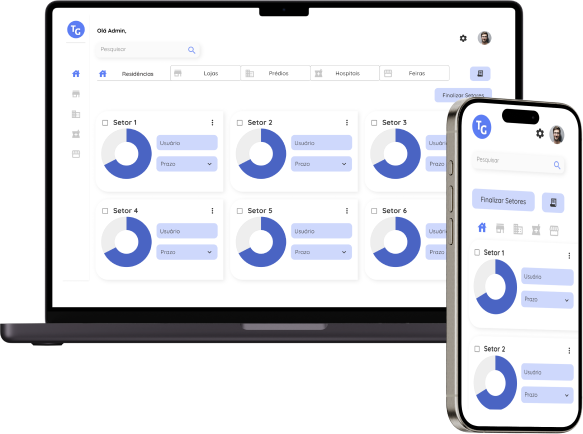
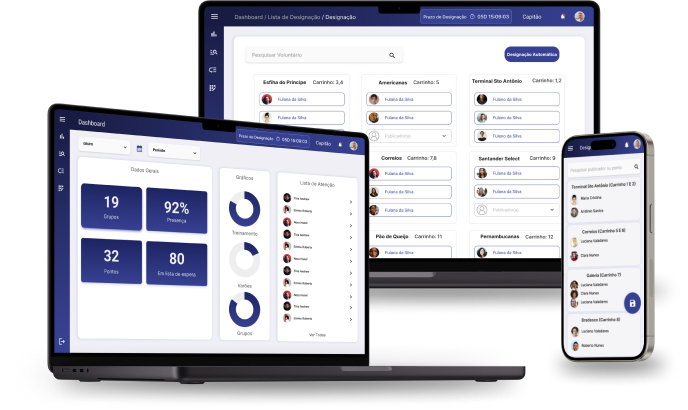
ajuste finos no css

diff --git a/src/pages/auth/login/index.tsx b/src/pages/auth/login/index.tsx
@@ -36,20 +36,19 @@ export function Login() {
   };
 
   const updatePhone = (e: React.ChangeEvent<HTMLInputElement>) => {
-    const phoneRaw = e.target.value.replace(/\D/g, "");
+    const phoneRaw = e.target.value.trim().replace(/\D/g, "");
     const phoneFormatted = formatPhone(phoneRaw);
     setInputLogin({ ...inputLogin, phone: phoneFormatted });
   };
 
-  const haveEmptyFields = !inputLogin.phone || !inputLogin.password;
   return (
     <AuthLayout onSubmit={handleSubmit}>
-      <div className="h-4/6 flex flex-col md:w-1/2 md:justify-center">
+      <div className="h-4/6 flex flex-col gap-8 p-4 md:w-1/2 md:justify-center">
         <div className="md:h-40 h-4/5 flex flex-col justify-evenly items-center">
           <h1 className="font-bold text-xl text-gray-800 md:hidden">
             Insira suas informações para realizar o login
           </h1>
-          <div className="md:w-96 w-full flex flex-col items-center md:gap-12 gap-6">
+          <div className="md:w-80 w-full flex flex-col items-center md:gap-12 gap-6">
             <Input
               crossOrigin
               value={inputLogin.phone}
@@ -78,17 +77,21 @@ export function Login() {
             />
           </div>
         </div>
-        <div className="h-1/5 flex flex-col justify-center items-center gap-4">
+        <div className="h-1/5 min-h-[40px] flex flex-col justify-center items-center gap-4">
           <Button
             placeholder={"Entrar ou Login"}
-            disabled={haveEmptyFields}
             type="submit"
-            className="md:w-96 w-40 md:rounded-xl bg-primary-600"
+            className="
+            md:w-64 w-40 h-[60px] p-7 
+            flex justify-center items-center rounded-2xl 
+            bg-primary-600
+            focus:opacity-65
+            "
             size="lg"
           >
             Entrar
           </Button>
-          <div className="md:w-96 w-40 flex justify-center md:justify-end text-gray-700 md:text-base text-sm">
+          <div className="text-gray-700 md:text-base text-sm">
             <Link to="/forgot-password">Esqueci minha senha</Link>
           </div>
         </div>

diff --git a/src/pages/auth/forgot-password/index.tsx b/src/pages/auth/forgot-password/index.tsx
@@ -63,15 +63,15 @@ export const ForgotPassword = () => {
 
   const haveEmptyFields =
     !inputForgotPassword.phone ||
-    inputForgotPassword.phone.replace(/\D/g, "").length < 11;
+    inputForgotPassword.phone.trim().replace(/\D/g, "").length < 11;
   return (
     <AuthLayout onSubmit={onSubmit}>
-      <div className="h-4/6 flex flex-col md:w-1/2 md:justify-center">
+      <div className="h-4/6 flex flex-col p-4 md:w-1/2 md:justify-center gap-6">
         <div className="md:h-40 h-4/5 flex flex-col justify-evenly items-center">
           <h1 className="font-bold text-xl text-gray-800 md:hidden">
             Insira seu CPF e seu telefone para recuperar a senha
           </h1>
-          <div className="md:w-96 w-full flex flex-col items-center md:gap-12 gap-6">
+          <div className="md:w-80 w-full flex flex-col items-center md:gap-12 gap-6">
             <Input
               crossOrigin
               value={inputForgotPassword.phone}
@@ -98,17 +98,20 @@ export const ForgotPassword = () => {
             /> */}
           </div>
         </div>
-        <div className="h-1/5 flex flex-col justify-center items-center gap-4">
+        <div className="h-1/5 min-h-[40px] flex flex-col justify-center items-center gap-4">
           <Button
             placeholder={"Entrar ou Login"}
             disabled={haveEmptyFields}
             type="submit"
-            className="md:w-96 w-40 md:rounded-xl bg-primary-600"
+            className="      md:w-64 w-40 h-[60px] p-7 
+            flex justify-center items-center rounded-2xl 
+            bg-primary-600
+            focus:opacity-65"
             size="lg"
           >
             Enviar
           </Button>
-          <div className="md:w-96 w-40 flex justify-center md:justify-end text-gray-700 md:text-base text-sm">
+          <div className="text-gray-700 md:text-base text-sm">
             <Link to="/">Voltar</Link>
           </div>
         </div>

diff --git a/src/pages/auth/components/layout.tsx b/src/pages/auth/components/layout.tsx
@@ -1,6 +1,5 @@
 import { FormEvent, HtmlHTMLAttributes, ReactNode } from "react";
 import TpeDigitalCircle from "../../../assets/tpe-digital-circle.svg";
-import TpeDigitalLoginDesktop from "../../../assets/tpe-digital-login-desktop.svg";
 import RectangleBlue from "../../../assets/rectangle-blue.svg";
 import RectangleGray from "../../../assets/rectangle-gray.svg";
 import MackbookTpeLogin from "../../../assets/mackbook-iphone-login.png";
@@ -27,26 +26,27 @@ export const AuthLayout = ({
     >
       <div className="h-2/6 relative flex justify-center items-center md:w-1/2 md:h-full">
         <img src={TpeDigitalCircle} alt="TPE Digital" className="md:hidden" />
-        <img
-          src={MackbookTpeLogin}
-          alt="Mackbook TPE"
-          className="hidden md:block z-30"
-        />
+        <div className="z-50 flex flex-col items-start">
+        
+          <div className="hidden md:block z-40 mt-12 ml-16 text-gray-50 font-semibold text-3xl justify-end">TPE DIGITAL</div>
+          <img
+            src={MackbookTpeLogin}
+            alt="Mackbook TPE"
+            className="hidden md:block z-30 p-8"
+          />
+        </div>
         <img
           src={RectangleBlue}
           alt="Rectangle Blue"
-          className="hidden md:block absolute h-full z-20 left-0 top-0"
+          className="hidden md:block absolute w-[100%] h-full z-20 left-0 top-0"
         />
         <img
           src={RectangleGray}
           alt="Rectangle Gray"
-          className="hidden md:block absolute h-full z-10 left-0 top-0"
+          // aumentar brilho da imagem
+          className="hidden  md:block absolute w-[100%] h-full z-10 left-0 top-0 brightness-[0.98]"
         />
-        <img
-          src={TpeDigitalLoginDesktop}
-          alt="TPE Digital"
-          className="hidden md:block absolute z-30 top-[15%] right-32"
-        />
+
       </div>
       <>{children}</>
     </form>

diff --git a/src/components/box/screen.tsx b/src/components/box/screen.tsx
@@ -20,25 +20,25 @@ export function BoxScreen({
   return (
     <div className="h-full w-full m-4">
       <div className="flex w-full justify-between items-center py-2">
-        <Breadcrumbs placeholder>
-          {showBreadcrumbs
-            ? generateBreadcrumbs(location.pathname).map(
-                (breadcrumb, index) => {
-                  const isLast =
-                    index === generateBreadcrumbs(location.pathname).length - 1;
-                  return (
-                    <Link
-                      key={breadcrumb.path}
-                      to={breadcrumb.path}
-                      className={`${!isLast ? "opacity-60" : ""}`}
-                    >
-                      {breadcrumb.breadcrumbName}
-                    </Link>
-                  );
-                }
-              )
-            : null}
-        </Breadcrumbs>
+        {showBreadcrumbs
+          && (<Breadcrumbs placeholder={showBreadcrumbs}>
+            {generateBreadcrumbs(location.pathname).map(
+              (breadcrumb, index) => {
+                const isLast =
+                  index === generateBreadcrumbs(location.pathname).length - 1;
+                return (
+                  <Link
+                    key={breadcrumb.path}
+                    to={breadcrumb.path}
+                    className={`${!isLast ? "opacity-60" : ""}`}
+                  >
+                    {breadcrumb.breadcrumbName}
+                  </Link>
+                );
+              }
+            )}
+          </Breadcrumbs>
+          )}
         {rightContent}
       </div>
       <div className="bg-white rounded-lg min-h-full flex flex-col gap-10 p-9">

diff --git a/src/pages/auth/forgot-password/CheckNumber.tsx b/src/pages/auth/forgot-password/CheckNumber.tsx
@@ -54,12 +54,12 @@ export function CheckNumberCode() {
 
   return (
     <AuthLayout onSubmit={onSubmit}>
-      <div className="h-4/6 flex flex-col md:w-1/2 md:justify-center">
+      <div className="h-4/6 flex flex-col p-4 md:w-1/2 md:justify-center gap-6">
         <div className="md:h-40 h-4/5 flex flex-col justify-evenly items-center">
           <h1 className="font-bold text-xl text-gray-800 md:w-96">
             Confirme o código de 6 dígitos enviado para o seu WhatsApp
           </h1>
-          <div className="md:w-96 w-full flex items-center justify-between">
+          <div className="md:w-80 w-full flex items-center justify-between">
             <Input
               crossOrigin={false}
               className="flex justify-between"
@@ -75,12 +75,15 @@ export function CheckNumberCode() {
             placeholder={"Entrar ou Login"}
             disabled={codeInput.length < 6}
             type="submit"
-            className="md:w-96 w-40 md:rounded-xl bg-primary-600"
+            className=" md:w-64 w-40 h-[60px] p-7 
+            flex justify-center items-center rounded-2xl 
+            bg-primary-600
+            focus:opacity-65"
             size="lg"
           >
             Enviar
           </Button>
-          <div className="md:w-96 w-40 flex justify-center md:justify-end text-gray-700 md:text-base text-sm">
+          <div className="text-gray-700 md:text-base text-sm">
             <Link to="/">Voltar</Link>
           </div>
         </div>

diff --git a/src/pages/auth/forgot-password/NewPassword.tsx b/src/pages/auth/forgot-password/NewPassword.tsx
@@ -49,12 +49,12 @@ export function NewPassword() {
 
   return (
     <AuthLayout onSubmit={onSubmit}>
-      <div className="h-4/6 flex flex-col md:w-1/2 md:justify-center">
+      <div className="h-4/6 flex flex-col p-4 md:w-1/2 md:justify-center gap-6">
         <div className="md:h-40 h-4/5 flex flex-col justify-evenly items-center">
           <h1 className="font-bold text-xl text-gray-800 md:hidden">
             Insira aqui a sua nova senha
           </h1>
-          <div className="md:w-96 w-full flex flex-col items-center md:gap-12 gap-6">
+          <div className="md:w-80 w-full flex flex-col items-center md:gap-12 gap-6">
             <Input
               crossOrigin={false}
               className="flex justify-between"
@@ -89,12 +89,15 @@ export function NewPassword() {
           <Button
             placeholder="Recuperar senha"
             type="submit"
-            className="md:w-96 w-40 md:rounded-xl bg-primary-600"
+            className=" md:w-64 w-40 h-[60px] p-7 
+            flex justify-center items-center rounded-2xl 
+            bg-primary-600
+            focus:opacity-65"
             size="lg"
           >
             Salvar Senha
           </Button>
-          <div className="md:w-96 w-40 flex justify-center md:justify-end text-gray-700 md:text-base text-sm">
+          <div className="text-gray-700 md:text-base text-sm">
             <Link to="/">Voltar</Link>
           </div>
         </div>

diff --git a/src/pages/designacao/lista/index.tsx b/src/pages/designacao/lista/index.tsx
@@ -51,7 +51,7 @@ export function ListaDesignacao() {
   const getGroupDetails = useCallback(async () => {
     if (!groupId) return console.log("groupId not found");
     const { data } = await http.get<GroupDetails>(
-      `/designations/group/${groupId}/details?groupId=${groupId}`
+      `/groups/${groupId}/designations/week-details`
     );
     setDesignationStatus(data.designation.status);
   }, [groupId, http]);
@@ -114,6 +114,7 @@ export function ListaDesignacao() {
 
   return (
     <BoxScreen
+    showBreadcrumbs={true}
       rightContent={
         <>
           <p className="text-primary-800 text-sm font-semibold">

diff --git a/src/lib/useAxios.ts b/src/lib/useAxios.ts
@@ -12,17 +12,17 @@ export const useHttp = () => {
     return config;
   });
 
-  // http.interceptors.response.use(
-  //   (response) => response,
-  //   (error) => {
-  //     if (error.response?.status === 400){
-  //       return Promise.reject(error);
-  //     }
-
-  //     cookie.erase("token")
-  //     return Promise.reject(error);
-  //   }
-  // );
+  http.interceptors.response.use(
+    (response) => {
+      return response;
+    },
+    (error) => {
+      if (error.response.status === 401) {
+        cookie.erase("token")
+        return Promise.reject(error);
+      }
+    }
+  );
 
   return http;
 };

diff --git a/src/components/menu/index.tsx b/src/components/menu/index.tsx
@@ -61,7 +61,9 @@ export const Menu = () => {
         </div>
       </header>
       <div className="h-16 invisible"></div>
-      <div className="flex items-start">
+      <div
+        className={`${open ? "overflow-hidden" : ""} flex items-start h-screen`}
+      >
         <Sidebar open={open} closeDrawer={closeDrawer} />
         <div className="flex justify-start items-start p-2 w-full">
           <Outlet />

diff --git a/index.html b/index.html
@@ -4,7 +4,7 @@
 <head>
   <meta charset="UTF-8" />
   <link rel="icon" type="image/png" href="/favicon.png" />
-  <meta name="viewport" content="width=device-width, initial-scale=1.0" />
+  <meta name="viewport" content="width=device-width, initial-scale=1, maximum-scale=1.0, user-scalable=no"/>
   <title>TPE - Digital</title>
   <style>
     ::selection {

diff --git a/src/pages/designacao/index.tsx b/src/pages/designacao/index.tsx
@@ -113,6 +113,7 @@ export function Designar() {
   return (
     <>
       <BoxScreen
+      showBreadcrumbs={true}
         loader={!assignments.length}
         rightContent={
           <>
